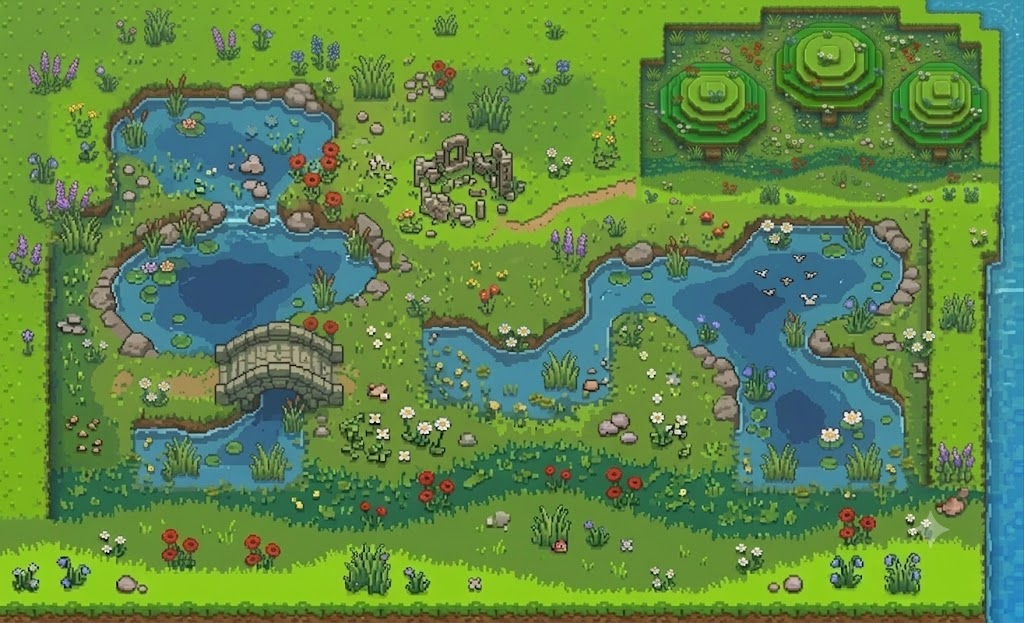
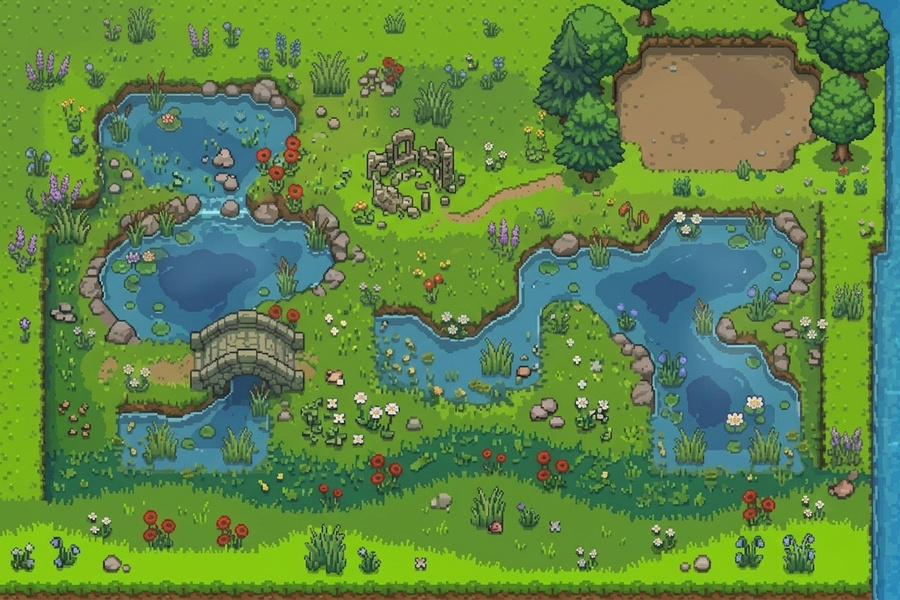
Feat: Add green apple, which gives more score than red apple.
Change logic of independence day.

Change some names of references to game assets.

Edit textures of main game background and game over background.

diff --git a/main.py b/main.py
@@ -59,14 +59,20 @@ I_key_used = False
 DEFAULT_FPS = 60
 scr = []
 today_date = datetime.date.today()
-is_independence_day = (today_date.month == 8 and today_date.day == 14)
+# is_independence_day = (today_date.month == 8 and today_date.day == 14)
+game_window = pygame.display.set_mode((900, 600))
+is_independence_day = (today_date.month == 8) # Applies for the whole month of August.
+if is_independence_day:
+    # august_background = pygame.image.load(resource_path("assets/august_background.jpg"))
+    # august_background = pygame.transform.scale(august_background, (900, 600)).convert_alpha()
+    green_apple = pygame.image.load(resource_path("assets/green_apple.png")).convert_alpha()
+    green_apple = pygame.transform.scale(green_apple, (snake, snake))
 mute_music = False
 target_fps = DEFAULT_FPS
 optimization_constant = 2.8 #This is a constant that is based of to calculate optimization index in gameloop its value is based of 70/25, where 25 is optimization index
 # that implies that the system is optimized enough to run the game at 70% of display refresh rate and this is the highest in the middle tier fps
 
 # display
-game_window = pygame.display.set_mode((900, 600))
 BASE_VELOCITY = 384 # (8 * fps:=48) pixels per second, regardless of the frames
 icon = pygame.image.load(resource_path('assets/appicon.png'))
 icon = pygame.transform.scale(icon, (32, 32)).convert_alpha()
@@ -76,10 +82,11 @@ myimg = pygame.image.load(resource_path('assets/menu_screen_image.jpg'))
 myimg = pygame.transform.scale(myimg, (900, 600)).convert_alpha()
 go = pygame.image.load(resource_path('assets/game_over_screen.jpg'))
 go = pygame.transform.scale(go, (900, 600)).convert_alpha()
-bk = pygame.image.load(resource_path('assets/background_image.jpg'))
-bk = pygame.transform.scale(bk, (900, 600)).convert_alpha()
-apl = pygame.image.load(resource_path('assets/apple.png'))
-apl = pygame.transform.scale(apl, (snake, snake)).convert_alpha()
+default_background_image = pygame.image.load(resource_path('assets/background_image.jpg'))
+default_background_image = pygame.transform.scale(default_background_image, (900, 600)).convert_alpha()
+background_image = default_background_image
+red_apple = pygame.image.load(resource_path('assets/apple.png'))
+red_apple = pygame.transform.scale(red_apple, (snake, snake)).convert_alpha()
 # s_i = pygame.image.load(resource_path('assets/sicon.png'))
 # si = pygame.transform.scale(s_i, (43, 43)).convert_alpha()
 setting_page = pygame.image.load(resource_path('assets/settings_page_image.png'))
@@ -437,6 +444,7 @@ def gameloop():
     global time_taken_to_score
     global testing_mode
     global I_key_used
+    global background_image
 
     # ctime = time.localtime()
     # ctime = time.strftime("%H-%M-%S")
@@ -682,7 +690,7 @@ def gameloop():
                         difficulty_velocity_change = round((BASE_VELOCITY)*(30/100))
 
             game_window.fill(white)
-            game_window.blit(bk, (0, 0))
+            game_window.blit(background_image, (0, 0))
 
             if (velocity_x != 0 or velocity_y !=0) and time1 is None:
                 time1 = time.time()
@@ -700,6 +708,7 @@ def gameloop():
                 food_x = random.randint(40, 600)
                 food_y = random.randint(40, 400)
                 s_length += s_controler
+                show_green_apple = random.choice([False, True])
 
 
             # ctime = time.localtime()
@@ -750,23 +759,27 @@ def gameloop():
                     pygame.mixer.music.load(resource_path("assets/game_over_music.mp3"))
                     pygame.mixer.music.play(-1)
 
-            game_window.blit(apl, (food_x, food_y))
+            game_window.blit(red_apple, (food_x, food_y)) if not show_green_apple else None
 
 
-            if is_independence_day:
+            if is_independence_day and show_green_apple:
                 # 20% chance for the green apple to appear(only on 14 August)
-                if show_green_apple:
-                    pygame.draw.rect(game_window, (0, 130, 0),
-                    pygame.Rect(green_food_x,green_food_y,snake,snake))
-                    if abs(snake_x-green_food_x) < apple_collrate and abs(snake_y-green_food_y) < apple_collrate:
-                        green_food_x = random.randint(20, 900)
-                        green_food_y = random.randint(30, 525)
-                        score += 30
-                        pygame.mixer.music.stop()
-                        if independendence_day_page():
-                            break
-                        else:
-                            pygame.event.clear()
+                # background_image = august_background
+                # pygame.draw.rect(game_window, (0, 130, 0),
+                # pygame.Rect(green_food_x,green_food_y,snake,snake))
+                game_window.blit(green_apple, (green_food_x, green_food_y))
+                if abs(snake_x-green_food_x) < apple_collrate and abs(snake_y-green_food_y) < apple_collrate:
+                    green_food_x = random.randint(20, 900)
+                    green_food_y = random.randint(30, 525)
+                    score += 30
+                    show_green_apple = random.choice([False, True])
+                    # pygame.mixer.music.stop()
+                    # if independendence_day_page():
+                    #     break
+                    # else:
+                    #     pygame.event.clear()
+            else:
+                background_image = default_background_image
 
             if snake_x < 0 or snake_x > 900 or snake_y < 0 or snake_y > 600:
                 game_over = True
